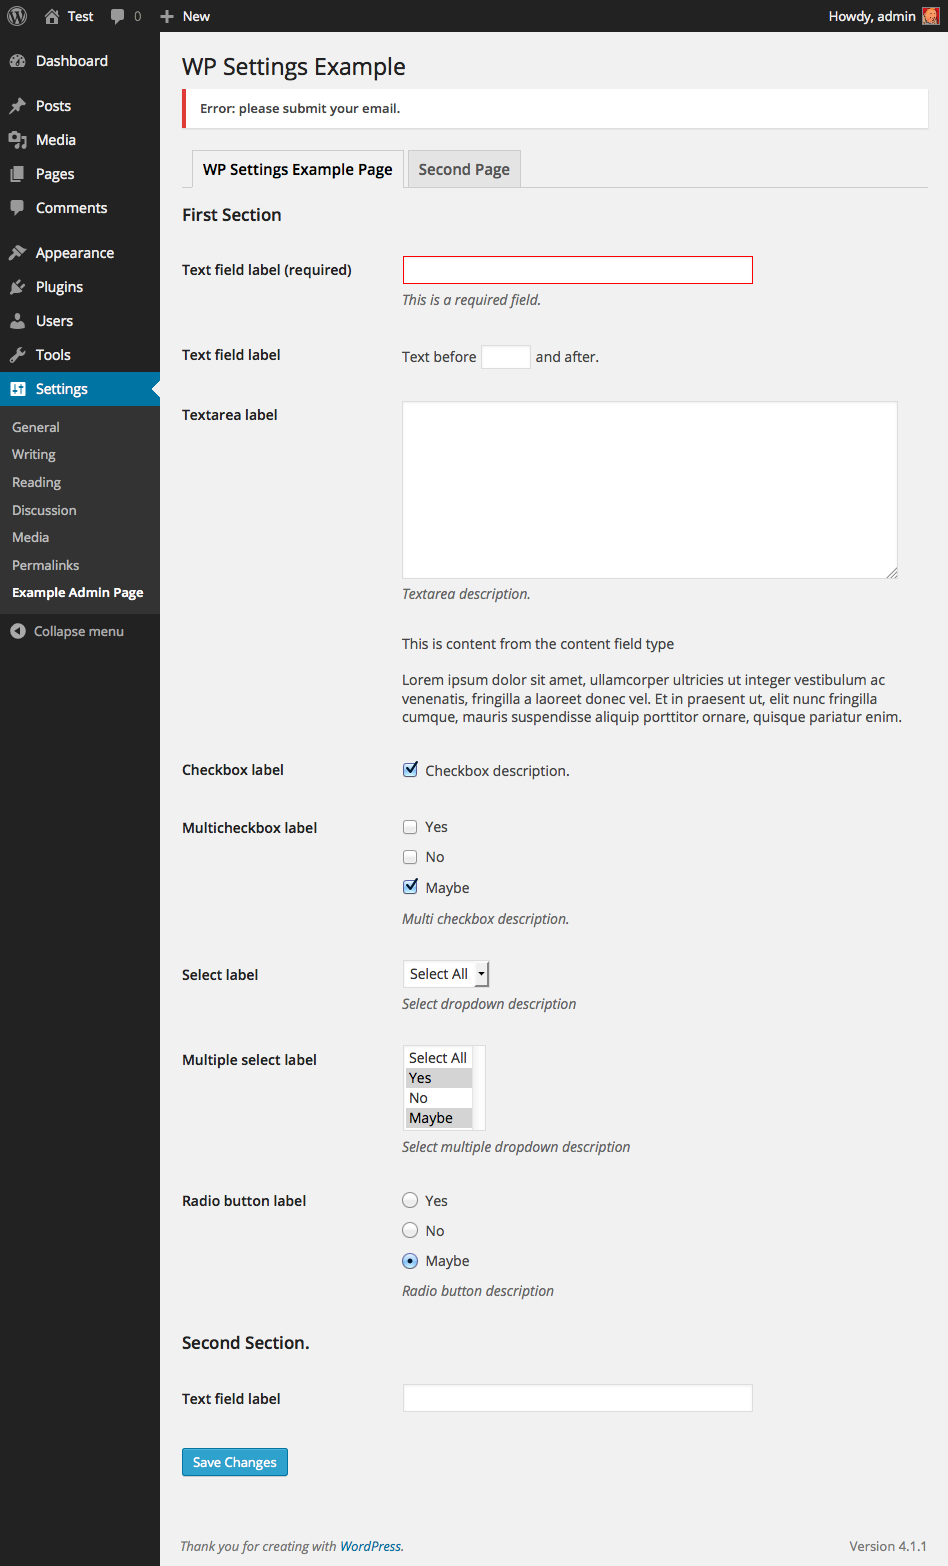
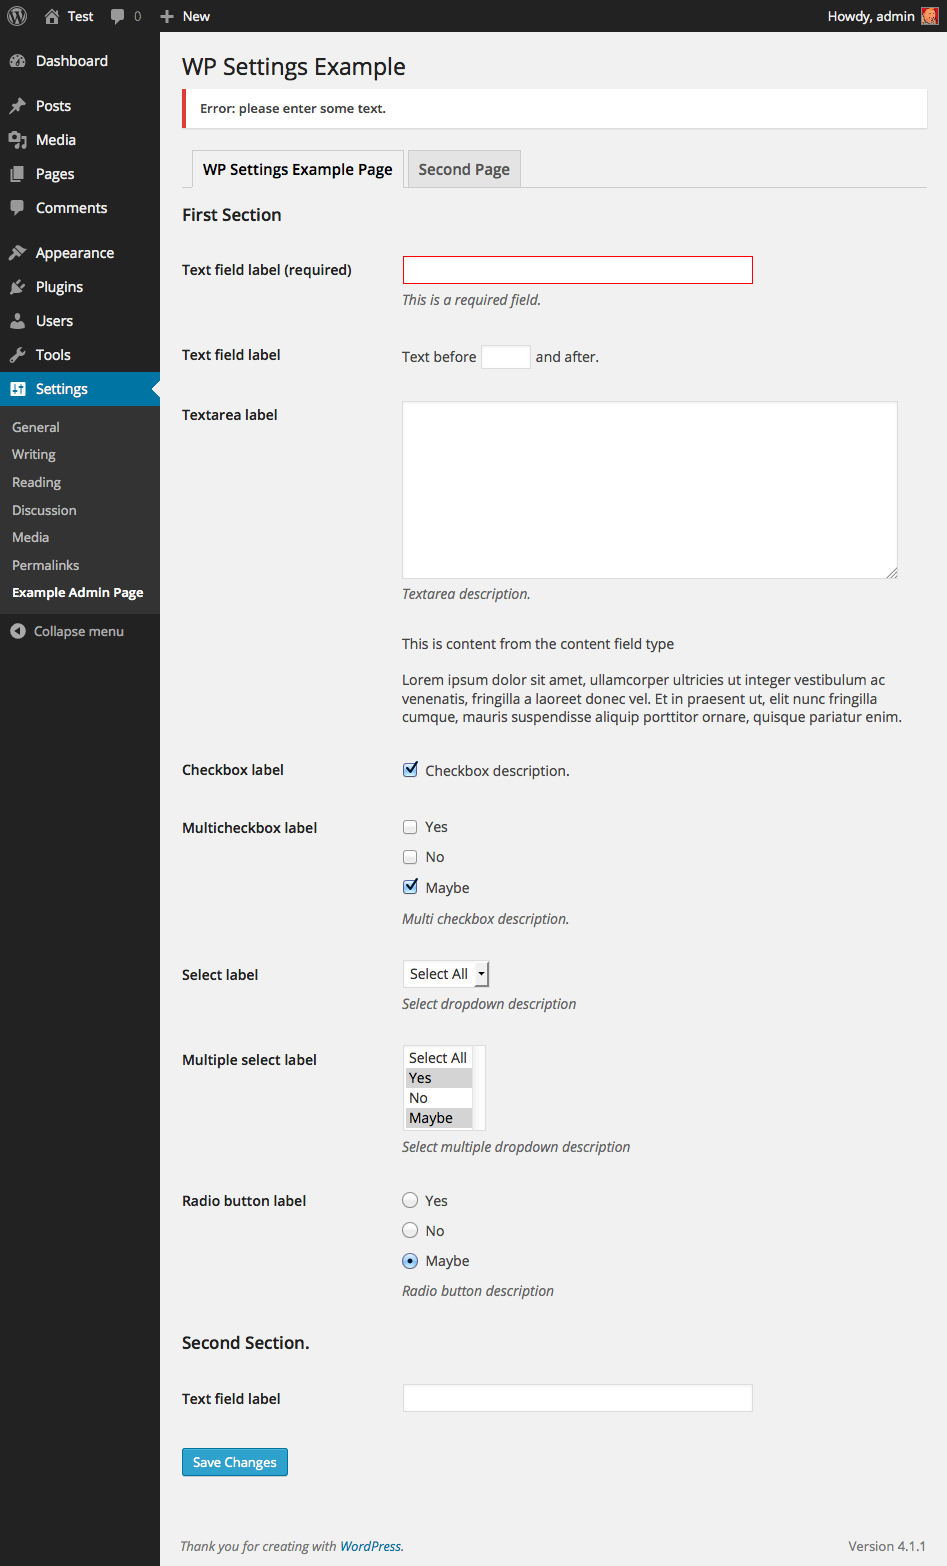
updated screenshot

diff --git a/example-plugin.php b/example-plugin.php
@@ -276,7 +276,7 @@ class WP_Settings_Example {
 			add_settings_error(
 				'section_one_text', // Form field id.
 				'texterror', // Error id.
-				__( 'Error: please submit your email.', 'plugin-text-domain' ), // Error message.
+				__( 'Error: please enter some text.', 'plugin-text-domain' ), // Error message.
 				'error' // Type of message. Use 'error' or 'updated'.
 			);
 		}
